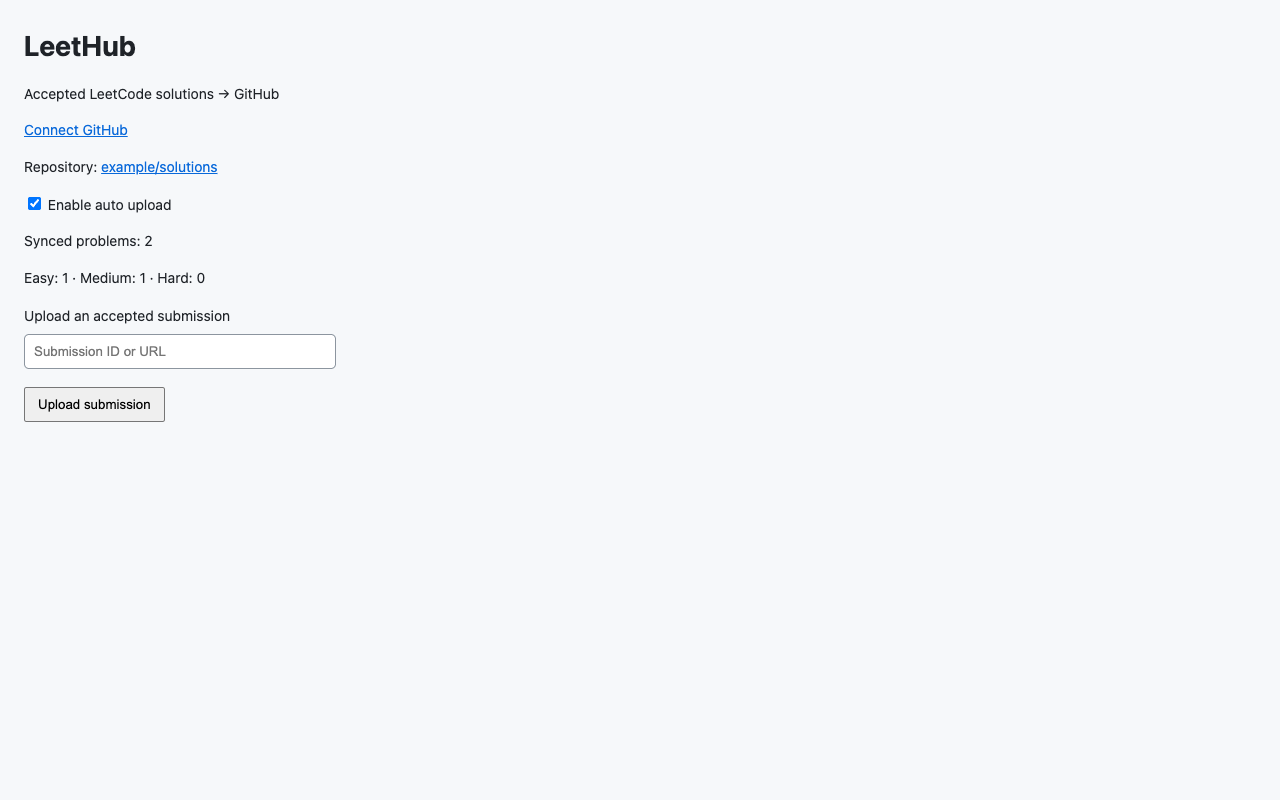
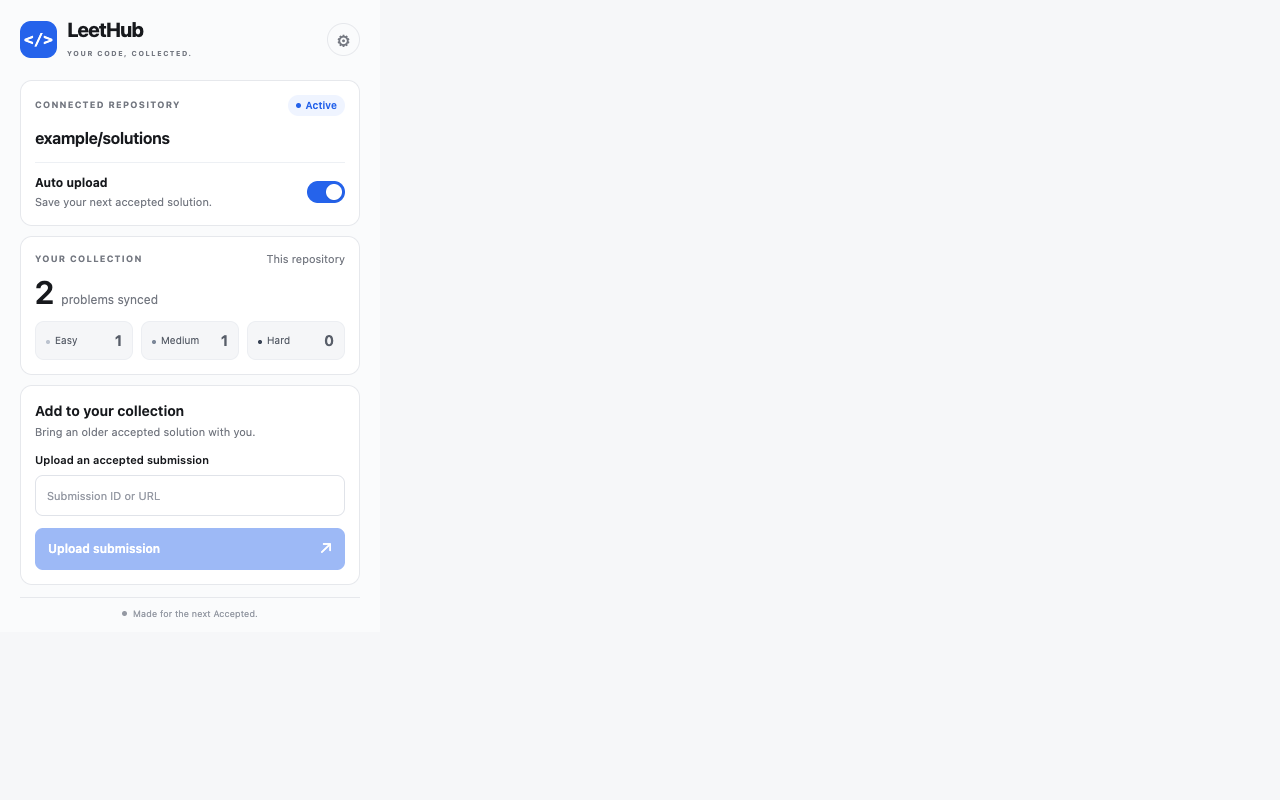
feat: redesign extension popup and setup with a neutral blue theme

diff --git a/src/css/app.css b/src/css/app.css
@@ -1,13 +1,77 @@
+@charset "UTF-8";
+:root { color-scheme: light; --ink: #17191d; --muted: #747881; --line: #e6e8ec; --brand: #2563eb; --paper: #f6f7f9; --accent: #ffffff; }
 * { box-sizing: border-box; }
-body { margin: 0; background: #f6f8fa; color: #1f2328; font: 14px/1.6 system-ui, sans-serif; }
-main { padding: 24px; }
-.popup { width: 360px; min-height: 300px; }
-.welcome { max-width: 640px; margin: 24px auto; }
-h1 { margin: 0 0 12px; }
-a { color: #0969da; }
-label { display: block; margin-top: 16px; }
-input:not([type=checkbox]), select { display: block; width: 100%; padding: 9px; margin: 6px 0; border: 1px solid #8c959f; border-radius: 5px; }
-button { padding: 8px 12px; margin: 12px 8px 0 0; cursor: pointer; }
-button:disabled { cursor: default; }
-[role=alert] { color: #b42318; overflow-wrap: anywhere; }
-[role=status] { overflow-wrap: anywhere; }
+body { margin: 0; background: var(--paper); color: var(--ink); font: 13px/1.5 -apple-system, BlinkMacSystemFont, 'Segoe UI', sans-serif; }
+a { color: var(--brand); text-decoration: none; }
+a:hover { text-decoration: underline; }
+button, input, select { font: inherit; }
+button, .button-link { cursor: pointer; transition: background .15s, transform .15s; }
+button:disabled { cursor: default; opacity: .45; }
+button:focus-visible, a:focus-visible, input:focus-visible, select:focus-visible { outline: 3px solid #93b4ff; outline-offset: 3px; }
+h1, h2, h3, p { margin: 0; }
+.eyebrow { font-size: 9px; font-weight: 700; letter-spacing: 1.15px; color: var(--muted); }
+.small-muted { color: var(--muted); font-size: 11px; }
+.muted { color: var(--muted); }
+.brand { display: flex; align-items: center; gap: 10px; }
+.brand-mark { font-family: ui-monospace, SFMono-Regular, monospace; font-weight: 700; width: 37px; height: 37px; border-radius: 11px; background: var(--brand); color: var(--accent); display: grid; place-items: center; font-size: 16px; line-height: 1; }
+.brand h1 { font-size: 20px; font-weight: 750; letter-spacing: -.7px; line-height: 1.2; }
+.brand .eyebrow { font-size: 7px; letter-spacing: 1.4px; }
+.brand-row { display: flex; align-items: center; justify-content: space-between; margin-bottom: 24px; }
+.icon-button { height: 33px; width: 33px; display: grid; place-items: center; font-size: 20px; border: 1px solid var(--line); border-radius: 50%; color: var(--muted); }
+.icon-button:hover { background: #f0f3f8; text-decoration: none; }
+.popup { width: 380px; padding: 22px 22px 14px; background: #fafbfc; }
+.repository-card, .progress-card, .manual-card { border: 1px solid var(--line); border-radius: 12px; background: #fff; margin-bottom: 12px; padding: 17px; }
+.repository-card { background: #ffffff; border-color: #e6e8ec; }
+.section-top { display: flex; align-items: center; justify-content: space-between; gap: 8px; }
+.status-badge { display: inline-flex; align-items: center; gap: 5px; border-radius: 20px; background: #f1f2f4; color: #6b7280; padding: 3px 8px; font-size: 10px; font-weight: 600; }
+.status-badge.active { background: #eff4ff; color: #2563eb; }
+.status-dot { width: 5px; height: 5px; border-radius: 50%; background: currentColor; display: inline-block; }
+.repository-name { color: var(--ink); display: block; margin: 13px 0 17px; font-size: 16px; font-weight: 650; letter-spacing: -.3px; overflow-wrap: anywhere; }
+.sync-control { border-top: 1px solid #edf0f4; padding-top: 13px; display: flex; align-items: center; justify-content: space-between; }
+.sync-control strong { font-size: 12px; }.sync-control p { color: var(--muted); font-size: 11px; margin-top: 2px; }
+.switch { display: inline-flex; position: relative; margin: 0; }
+.switch input { opacity: 0; position: absolute; width: 38px; height: 22px; margin: 0; cursor: pointer; z-index: 1; }
+.switch-track { display: block; width: 38px; height: 22px; background: #cbd0d8; border-radius: 20px; transition: background .2s; }
+.switch-track:after { content: ''; display: block; width: 16px; height: 16px; margin: 3px; background: white; border-radius: 50%; transition: transform .2s; box-shadow: 0 1px 3px #0002; }
+.switch input:checked + .switch-track { background: var(--brand); }.switch input:checked + .switch-track:after { transform: translateX(16px); }.switch input:focus-visible + .switch-track { outline: 3px solid #93b4ff; outline-offset: 3px; }
+.total { display: flex; align-items: baseline; gap: 9px; margin: 12px 0 16px; }.total strong { font-size: 38px; line-height: 1; font-weight: 600; letter-spacing: -2px; }.total span { color: var(--muted); font-size: 12px; }
+.difficulty-grid { display: grid; grid-template-columns: repeat(3,1fr); gap: 8px; }.difficulty { border-radius: 9px; padding: 8px 11px; display: flex; align-items: center; justify-content: space-between; font-size: 10px; }.difficulty strong { font-size: 15px; font-weight: 650; }.easy { color: #585e69; background: #f5f6f8; }.medium { color: #585e69; background: #f5f6f8; }.hard { color: #585e69; background: #f5f6f8; }
+.manual-card h2 { font-size: 14px; font-weight: 650; }.manual-card .muted { font-size: 11px; margin-top: 3px; }
+label { display: block; font-size: 11px; font-weight: 600; margin: 16px 0 6px; }
+input:not([type=checkbox]), select { width: 100%; min-height: 39px; border: 1px solid #e0e3e9; background: #ffffff; color: var(--ink); padding: 10px 11px; border-radius: 8px; outline: none; }
+input::placeholder { color: #969aa4; font-size: 11px; }input:focus, select:focus { border-color: #2563eb; background: #fff; }
+.primary, .secondary { border: 0; border-radius: 8px; padding: 11px 15px; font-weight: 600; font-size: 12px; display: inline-flex; align-items: center; justify-content: space-between; gap: 16px; }
+.primary { min-height: 42px; color: white; background: var(--brand); }.primary:hover:not(:disabled) { background: #1d4ed8; text-decoration: none; }.primary span { font-size: 17px; font-weight: 400; }.full-width { width: 100%; margin-top: 12px; }.secondary { background: #f0f4fb; color: var(--brand); }.secondary:hover:not(:disabled) { background: #e4edff; }
+.field-hint { font-size: 10px; color: var(--muted); margin-top: 8px; line-height: 1.6; }
+.latest-link { display: flex; justify-content: space-between; align-items: center; padding: 7px 4px; font-size: 11px; }.success-icon { margin-right: 7px; }
+.feedback { display: none; }.feedback.visible, .feedback.error { display: block; margin-top: 12px; border-radius: 8px; padding: 10px 12px; background: #f0f4fb; color: var(--brand); font-size: 11px; overflow-wrap: anywhere; }.feedback.error { background: #fff3f3; color: #b42332; }
+.popup-footer { font-size: 9px; color: #9499a3; display: flex; gap: 6px; align-items: center; justify-content: center; border-top: 1px solid var(--line); margin-top: 18px; padding-top: 12px; }
+.empty-state { text-align: center; padding: 20px 6px 30px; }.empty-state h2 { font-size: 27px; line-height: 1.2; letter-spacing: -1px; margin: 12px 0; }.empty-state p { font-size: 12px; color: var(--muted); line-height: 1.8; }.empty-state .button-link { margin: 24px 0 14px; width: 100%; }.empty-state > .small-muted { display: block; }
+.code-art { width: 100px; height: 106px; margin: 0 auto 27px; transform: rotate(-7deg); border: 1px solid #dce3ef; border-radius: 13px; background: #edf3ff; padding: 15px; box-shadow: 8px 8px 0 #e4e9f3; text-align: left; }.code-art span { font-size: 26px; font-weight: 600; color: var(--brand); }.art-line { height: 4px; background: #a9c1f4; border-radius: 5px; margin-top: 8px; }.art-line.short { width: 60%; }
+.welcome { display: grid; grid-template-columns: .9fr 1.1fr; max-width: 1000px; margin: 48px auto; border: 1px solid var(--line); border-radius: 16px; overflow: hidden; background: #fff; box-shadow: 0 18px 70px #14274b0a; }
+.welcome-story { border-right: 1px solid var(--line); padding: 38px; display: flex; flex-direction: column; background: #f4f5f8; }.welcome-story .brand strong { font-size: 22px; letter-spacing: -.8px; }.story-content { margin: auto 0; padding: 68px 0; }.story-content h1 { font-size: 45px; font-weight: 650; letter-spacing: -2px; line-height: 1.15; margin: 18px 0; }.story-content p { font-size: 14px; color: #747881; line-height: 1.9; max-width: 300px; }.story-footnote { color: #8b909b; font-size: 10px; }
+.flow-preview { display: flex; align-items: center; gap: 11px; margin-top: 40px; }.flow-source, .flow-destination { border: 1px solid #dfe3eb; background: #ffffff; border-radius: 11px; padding: 15px 12px; font-size: 10px; color: #747881; }.flow-source span, .flow-destination span { display: block; font-size: 24px; margin-bottom: 8px; color: var(--brand); }.flow-destination { background: #20242c; border-color: #20242c; color: #e6edff; }.flow-destination span { color: #ffffff; }.flow-arrow { color: #9aa3b3; }
+.setup-panel { padding: 38px 38px 25px; }.setup-header h2 { font-size: 29px; letter-spacing: -1px; margin: 8px 0 6px; }.setup-header p { font-size: 12px; }.setup-step { margin-top: 27px; padding-top: 24px; border-top: 1px solid var(--line); }.step-heading { display: flex; align-items: center; gap: 11px; }.step-heading h3 { font-size: 15px; }.step-heading p { font-size: 11px; color: var(--muted); margin-top: 3px; }.step-heading .status-badge { margin-left: auto; font-size: 9px; }.step-number { flex-shrink: 0; width: 30px; height: 30px; border: 1px solid var(--line); border-radius: 50%; display: grid; place-items: center; font-size: 12px; color: #747881; }.step-number.complete { background: #eff4ff; color: var(--brand); border-color: #dce7ff; }
+.auth-actions { display: flex; justify-content: space-between; align-items: center; gap: 8px; margin-top: 13px; }.auth-actions a { font-size: 11px; }.setup-fields { display: grid; grid-template-columns: 1fr 1fr; gap: 12px; }.setup-fields select { font-size: 11px; }.setup-footer { display: flex; justify-content: space-between; align-items: center; gap: 14px; border-top: 1px solid var(--line); margin-top: 26px; padding-top: 17px; font-size: 9px; color: var(--muted); }.text-button { background: none; border: none; color: var(--muted); padding: 0; font-size: 10px; text-decoration: underline; }
+@media (max-width: 760px) { .welcome { margin: 16px; grid-template-columns: 1fr; }.welcome-story { border-right: 1px solid var(--line); padding: 24px; }.story-content { padding: 25px 0; }.story-content h1 { font-size: 34px; }.flow-preview, .story-footnote { display: none; }.setup-panel { padding: 25px; } }
+@media (prefers-reduced-motion: reduce) { * { transition: none !important; } }
+
+.difficulty { border: 1px solid #eceef2; }.difficulty span::before { content: ""; display: inline-block; width: 4px; height: 4px; border-radius: 50%; background: #bcc3cf; margin-right: 5px; }.medium span::before { background: #7c8799; }.hard span::before { background: #394355; }
+.setup-footer { flex-wrap: wrap; }.setup-panel { min-width: 0; }.welcome-story { min-width: 0; }.setup-fields > div { min-width: 0; }
+
+/* Keep the complete connected view within Chrome's popup height limit. */
+.popup { padding: 18px 20px 12px; }
+.popup .brand-row { margin-bottom: 18px; }
+.popup .repository-card, .popup .progress-card, .popup .manual-card { padding: 14px; margin-bottom: 10px; }
+.popup .repository-name { margin: 10px 0 12px; }
+.popup .sync-control { padding-top: 10px; }
+.popup .total { margin: 9px 0 12px; }
+.popup .total strong { font-size: 32px; }
+.popup .difficulty { padding: 7px 10px; }
+.popup label:not(.switch) { margin-top: 12px; }
+.popup .primary { padding: 8px 13px; min-height: 38px; }
+.popup .popup-footer { margin-top: 12px; padding-top: 9px; }
+.welcome { margin: 28px auto; }
+.setup-panel { padding: 28px 36px 22px; }
+.setup-step { margin-top: 22px; padding-top: 20px; }
+@media (max-width: 760px) { .welcome { margin: 16px; }.setup-panel { padding: 25px; } }

diff --git a/src/components/Welcome.tsx b/src/components/Welcome.tsx
@@ -10,8 +10,10 @@ const Welcome: React.FC = () => {
   const [repository, setRepository] = useState('')
   const [repOption, setRepOption] = useState('')
   const [orgOption, setOrgOption] = useState('platform')
+  const [connected, setConnected] = useState(false)
   useEffect(() => {
-    void browser.storage.local.get(['leethub_hook', 'leethub_OrgOption']).then(data => {
+    void browser.storage.local.get(['leethub_hook', 'leethub_OrgOption', 'leethub_token']).then(data => {
+      setConnected(typeof data.leethub_token === 'string' && !!data.leethub_token)
       setRepository(typeof data.leethub_hook === 'string' ? data.leethub_hook : '')
       setOrgOption(data.leethub_OrgOption === 'language' ? 'language' : 'platform')
     })
@@ -26,6 +28,7 @@ const Welcome: React.FC = () => {
       // Pause uploads and clear the previous account binding when replacing credentials.
       await browser.storage.local.set({ leethub_token: token, leethub_username: user.login,
         leethub_hook: null, mode_type: 'hook', bjhEnable: false, lastError: null, lastUpload: null })
+      setConnected(true)
       setAccessToken('')
       setMessage('GitHub connected. Select your repository below.')
     } catch (error) {
@@ -52,27 +55,32 @@ const Welcome: React.FC = () => {
     setMessage('Repository unlinked. Select another repository to resume uploads.')
   }
   return <main className='welcome'>
-    <h1>LeetHub setup</h1>
-    <p>Sync accepted LeetCode submissions to GitHub.</p>
-    <label htmlFor='access-token'>Repository-scoped GitHub token</label>
-    <input id='access-token' type='password' autoComplete='off' value={accessToken} onChange={event => setAccessToken(event.target.value)} />
-    <p>Use a fine-grained token with Contents read and write for your selected repository and an expiration date.</p>
-    <button disabled={busy} onClick={authenticate}>Connect GitHub</button>
-    <label htmlFor='type'>Repository action</label>
-    <select id='type' value={repOption} onChange={event => setRepOption(event.target.value)}>
-      <option value=''>Pick an Option</option><option value='link'>Link an Existing Repository</option>
-      <option value='new'>Create a new Private Repository</option>
-    </select>
-    {repOption === 'new' && <p>Creating a repository requires additional GitHub permission. Linking an existing initialized repository is recommended.</p>}
-    <label htmlFor='repository'>Repository</label>
-    <input id='repository' placeholder='Repository Name or owner/repository' value={repository} onChange={event => setRepository(event.target.value)} />
-    <label htmlFor='organization'>Organize solutions</label>
-    <select id='organization' value={orgOption} onChange={event => setOrgOption(event.target.value)}>
-      <option value='platform'>Organize by Platform</option><option value='language'>Organize by Language</option>
-    </select>
-    <button disabled={busy || !repository.trim() || !repOption} onClick={connectRepository}>Get Started</button>
-    <button disabled={busy} onClick={unlink}>Unlink repository</button>
-    <p role='status'>{message}</p>
+    <aside className='welcome-story'>
+      <div className='brand'><span className='brand-mark' aria-hidden='true'>&lt;/&gt;</span><strong>LeetHub</strong></div>
+      <div className='story-content'><span className='eyebrow'>SMALL WINS. LASTING PROGRESS.</span><h1>Your practice,<br />in one place.</h1><p>Turn accepted solutions into a collection you can come back to. Pick a repository. We’ll take it from there.</p>
+        <div className='flow-preview' aria-hidden='true'><div className='flow-source'><span>&lt;/&gt;</span>Accepted</div><span className='flow-arrow'>→</span><div className='flow-destination'><span>⌘</span>Your repository</div></div>
+      </div><span className='story-footnote'>Built for LeetCode. Stored on GitHub.</span>
+    </aside>
+    <div className='setup-panel'>
+      <header className='setup-header'><span className='eyebrow'>LET’S GET YOU CONNECTED</span><h2>LeetHub setup</h2><p className='muted'>Two steps. Then back to solving.</p></header>
+      <section className='setup-step'>
+        <div className='step-heading'><span className={`step-number ${connected ? 'complete' : ''}`}>{connected ? '✓' : '1'}</span><div><h3>Connect GitHub</h3><p>{connected ? 'Connected. You can replace your token here.' : 'Give your solutions a place to land.'}</p></div>{connected && <span className='status-badge active'>Connected</span>}</div>
+        <label htmlFor='access-token'>Repository-scoped GitHub token</label>
+        <input id='access-token' type='password' autoComplete='off' placeholder='Paste your GitHub token' value={accessToken} onChange={event => setAccessToken(event.target.value)} />
+        <p className='field-hint'>Choose one repository, allow Contents read and write, and set an expiration date.</p>
+        <div className='auth-actions'><button className='secondary' disabled={busy} onClick={authenticate}>Connect GitHub</button><a href='https://github.com/settings/personal-access-tokens/new' target='_blank' rel='noopener noreferrer'>Create a token ↗</a></div>
+      </section>
+      <section className='setup-step'>
+        <div className='step-heading'><span className='step-number'>2</span><div><h3>Choose your repository</h3><p>Keep all your accepted solutions together.</p></div></div>
+        <div className='setup-fields'><div><label htmlFor='type'>Repository action</label><select id='type' value={repOption} onChange={event => setRepOption(event.target.value)}><option value=''>Pick an Option</option><option value='link'>Link an Existing Repository</option><option value='new'>Create a new Private Repository</option></select></div>
+          <div><label htmlFor='organization'>Organize solutions</label><select id='organization' value={orgOption} onChange={event => setOrgOption(event.target.value)}><option value='platform'>Organize by Platform</option><option value='language'>Organize by Language</option></select></div></div>
+        <label htmlFor='repository'>Repository</label><input id='repository' placeholder='Repository Name or owner/repository' value={repository} onChange={event => setRepository(event.target.value)} />
+        <p className='field-hint'>{repOption === 'new' ? 'Creating a repository requires additional GitHub permission. Linking an existing initialized repository is recommended.' : 'Use a repository with a README and write access.'}</p>
+        <button className='primary full-width' disabled={busy || !repository.trim() || !repOption} onClick={connectRepository}>Get Started<span aria-hidden='true'>→</span></button>
+      </section>
+      <p className={`feedback ${message ? 'visible' : ''}`} role='status'>{message}</p>
+      <div className='setup-footer'><span>Your token stays in this browser’s extension storage.</span><button className='text-button' disabled={busy} onClick={unlink}>Unlink repository</button></div>
+    </div>
   </main>
 }
 export default Welcome

diff --git a/src/components/Popup.tsx b/src/components/Popup.tsx
@@ -28,24 +28,46 @@ const Popup: React.FC = () => {
     } catch (error) { setMessage(error instanceof Error ? error.message : 'Upload failed') }
     finally { setBusy(false) }
   }
+  const enabled = data.bjhEnable === true
   return <main className='popup'>
-    <h1>LeetHub</h1><p>Accepted LeetCode solutions → GitHub</p>
-    <a href={WELCOME_URL} target='_blank' rel='noopener noreferrer'>{data.leethub_token ? 'Repository settings / reconnect' : 'Connect GitHub'}</a>
-    {data.leethub_hook && <>
-      <p>Repository: <a href={`https://github.com/${data.leethub_hook}`} target='_blank' rel='noopener noreferrer'>{data.leethub_hook}</a></p>
-      <label><input type='checkbox' checked={data.bjhEnable === true} onChange={async event => {
-        try { await browser.storage.local.set({ bjhEnable: event.target.checked }) }
-        catch { setMessage('Could not save auto-upload setting.') }
-      }} /> Enable auto upload</label>
-      <p>Synced problems: {problems.length}</p>
-      <p>{['Easy', 'Medium', 'Hard'].map(level => `${level}: ${problems.filter(problem => problem.difficulty === level).length}`).join(' · ')}</p>
-      <label htmlFor='submission'>Upload an accepted submission</label>
-      <input id='submission' placeholder='Submission ID or URL' value={submission} onChange={event => setSubmission(event.target.value)} />
-      <button disabled={busy || data.bjhEnable !== true} onClick={upload}>Upload submission</button>
-      {data.lastUpload && <p><a href={data.lastUpload.url} target='_blank' rel='noopener noreferrer'>View latest solution</a></p>}
-    </>}
-    {data.lastError && <p role='alert'>{data.lastError}</p>}
-    <p role='status'>{message}</p>
+    <header className='brand-row'>
+      <div className='brand'><span className='brand-mark' aria-hidden='true'>&lt;/&gt;</span><div><h1>LeetHub</h1><span className='eyebrow'>YOUR CODE, COLLECTED.</span></div></div>
+      <a className='icon-button' href={WELCOME_URL} aria-label='Repository settings / reconnect' title='Settings' target='_blank' rel='noopener noreferrer'>⚙</a>
+    </header>
+    {data.leethub_hook ? <>
+      <section className='repository-card'>
+        <div className='section-top'><span className='eyebrow'>CONNECTED REPOSITORY</span><span className={`status-badge ${enabled ? 'active' : ''}`}><span className='status-dot' />{enabled ? 'Active' : 'Paused'}</span></div>
+        <a className='repository-name' href={`https://github.com/${data.leethub_hook}`} target='_blank' rel='noopener noreferrer'>{data.leethub_hook}</a>
+        <div className='sync-control'><div><strong>Auto upload</strong><p>Save your next accepted solution.</p></div>
+          <label className='switch'><input type='checkbox' aria-label='Enable auto upload' checked={enabled} onChange={async event => {
+            try { await browser.storage.local.set({ bjhEnable: event.target.checked }) }
+            catch { setMessage('Could not save auto-upload setting.') }
+          }} /><span className='switch-track' /></label>
+        </div>
+      </section>
+      <section className='progress-card'>
+        <div className='section-top'><span className='eyebrow'>YOUR COLLECTION</span><span className='small-muted'>This repository</span></div>
+        <div className='total'><strong>{problems.length}</strong><span>problems synced</span></div>
+        <div className='difficulty-grid'>{['Easy', 'Medium', 'Hard'].map(level => <div className={`difficulty ${level.toLowerCase()}`} key={level}><span>{level}</span><strong>{problems.filter(problem => problem.difficulty === level).length}</strong></div>)}</div>
+      </section>
+      <section className='manual-card'>
+        <h2>Add to your collection</h2><p className='muted'>Bring an older accepted solution with you.</p>
+        <label htmlFor='submission'>Upload an accepted submission</label>
+        <input id='submission' placeholder='Submission ID or URL' value={submission} onChange={event => setSubmission(event.target.value)} />
+        <button className='primary full-width' disabled={busy || !enabled || !submission.trim()} onClick={upload}>{busy ? 'Uploading…' : 'Upload submission'}<span aria-hidden='true'>↗</span></button>
+        {!enabled && <p className='field-hint'>Turn on auto upload to upload a submission.</p>}
+      </section>
+      {data.lastUpload && <a className='latest-link' href={data.lastUpload.url} target='_blank' rel='noopener noreferrer'><span><span className='success-icon' aria-hidden='true'>✓</span>View latest solution</span><span aria-hidden='true'>↗</span></a>}
+    </> : <section className='empty-state'>
+      <div className='code-art' aria-hidden='true'><span>&lt;/&gt;</span><div className='art-line' /><div className='art-line short' /><div className='art-line' /></div>
+      <span className='eyebrow'>SOLVE. SYNC. KEEP GOING.</span>
+      <h2>A home for every<br />accepted solution.</h2><p>Connect a repository once.<br />Let your LeetCode work find its way to GitHub.</p>
+      <a className='primary button-link' href={WELCOME_URL} target='_blank' rel='noopener noreferrer'>{data.leethub_token ? 'Choose a repository' : 'Connect GitHub'}<span aria-hidden='true'>→</span></a>
+      <span className='small-muted'>Your repository. Your code.</span>
+    </section>}
+    {data.lastError && <p className='feedback error' role='alert'>{data.lastError}</p>}
+    <p className={`feedback ${message ? 'visible' : ''}`} role='status'>{message}</p>
+    <footer className='popup-footer'><span className='status-dot' />Made for the next Accepted.</footer>
   </main>
 }
 export default Popup

diff --git a/src/components/Popup.test.tsx b/src/components/Popup.test.tsx
@@ -19,8 +19,11 @@ test('links to GitHub and displays repository-scoped counts', async () => {
   render(<Popup />)
   const link = await screen.findByRole('link', { name: 'example/solutions' })
   expect(link.getAttribute('href')).toBe('https://github.com/example/solutions')
-  expect(screen.getByText('Synced problems: 1')).toBeTruthy()
-  expect(screen.getByText('Easy: 1 · Medium: 0 · Hard: 0')).toBeTruthy()
+  expect(screen.getByText('problems synced')).toBeTruthy()
+  expect(screen.getAllByText('1')).toHaveLength(2)
+  expect(screen.getByText('Easy')).toBeTruthy()
+  expect(screen.getByText('Medium')).toBeTruthy()
+  expect(screen.getByText('Hard')).toBeTruthy()
 })
 test('reacts to authentication-only changes and unregisters on unmount', async () => {
   const view = render(<Popup />)

diff --git a/store/UI-UPDATE.md b/store/UI-UPDATE.md
@@ -1,0 +1,7 @@
+# Version 1.0.6 UI update
+
+The popup and setup page use white surfaces, charcoal text, restrained blue accents, and compact spacing. Repository status, automatic upload, synchronized-problem counts, and manual upload have distinct sections. Setup presents GitHub authentication and repository selection as two steps.
+
+The update retains the existing upload behavior and storage. Version 1.0.6 uses refreshed icons and store screenshots.
+
+Validation: type checking, 45 automated tests, production build, and unpacked Chrome smoke tests passed. Real-browser GitHub authentication and private test repository linking succeeded. LeetCode is currently logged out in the user's browser, so a genuine accepted-submission upload remains pending login. The update must not be described as fully validated end to end until that check passes.
